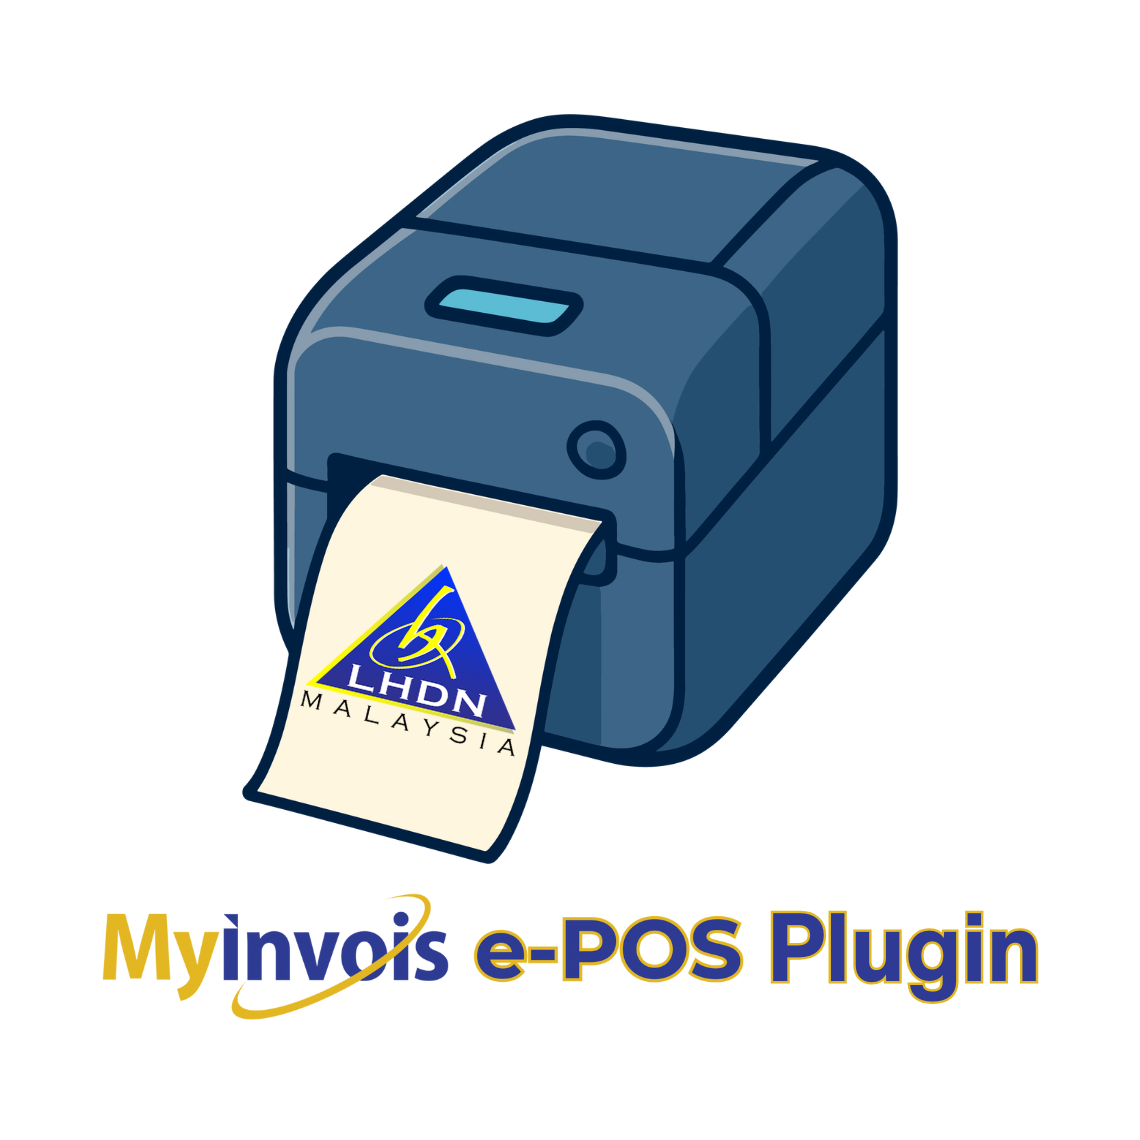
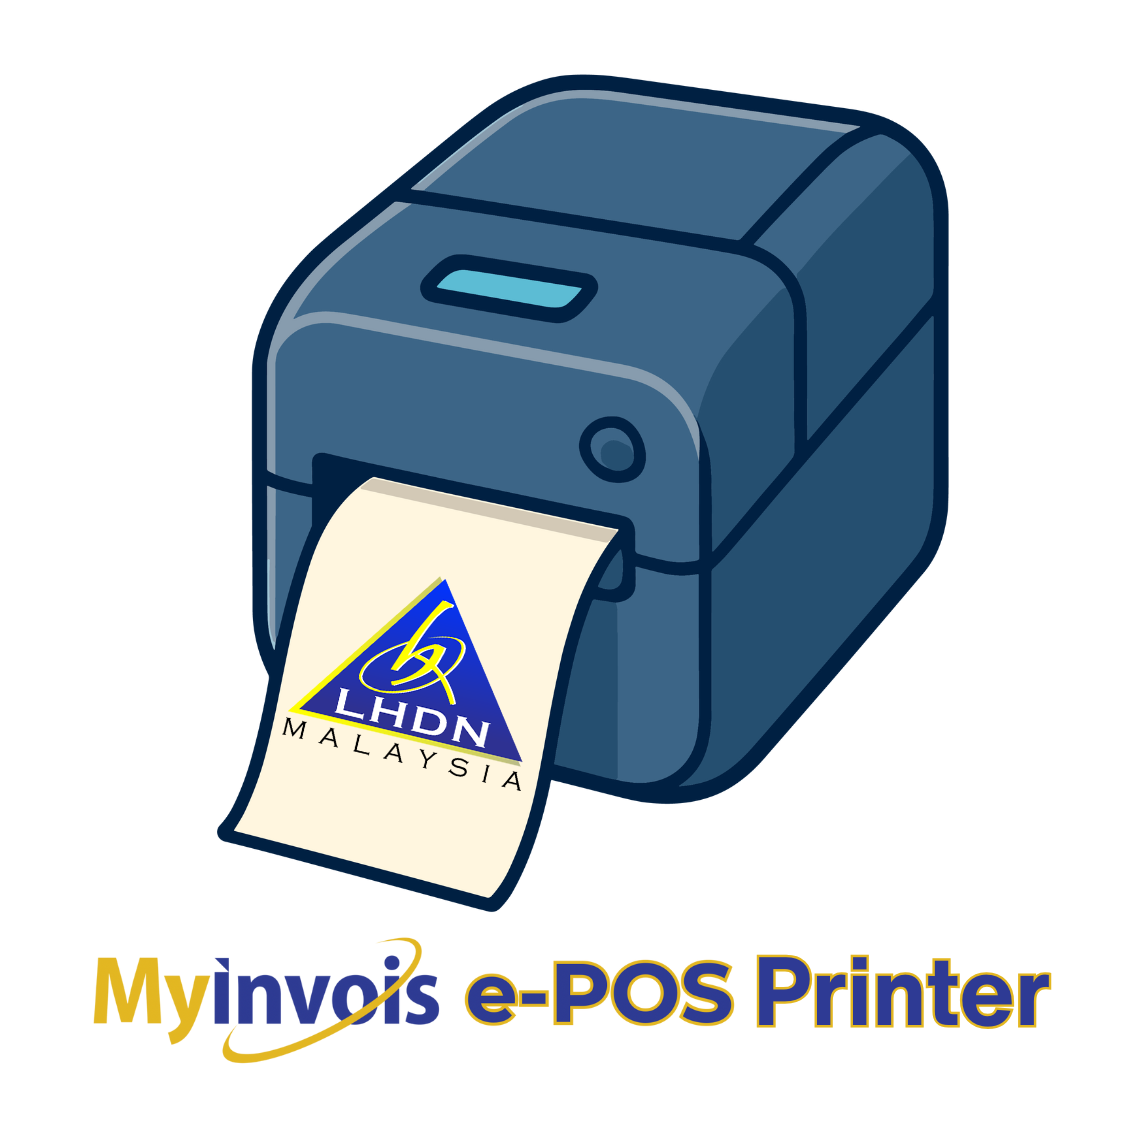
Initial commit

Changed region(s): [[0.0614, 0.0614, 0.9211, 0.9518]]

diff --git a/android/app/src/main/kotlin/com/example/epos_print_plugin/MyPrintService.kt b/android/app/src/main/kotlin/com/example/epos_print_plugin/MyPrintService.kt
@@ -78,8 +78,8 @@ class MyPrintService : PrintService() {
                 val mediaSunmi58 = MediaSize("SUNMI_58", "58mm (Small)", 2280, 50000)
                 val mediaSunmi80 = MediaSize("SUNMI_80", "80mm (Large)", 3150, 50000)
                 
-                // --- CUSTOM SETTING: "My-Invois e-Pos Printer" ---
-                val mediaEpos = MediaSize("EPOS_SETTING", "My-Invois e-Pos Printer", 8270, 11690)
+                // --- CUSTOM SETTING: "MyInvois e-Pos Printer" ---
+                val mediaEpos = MediaSize("EPOS_SETTING", "MyInvois e-Pos Printer", 8270, 11690)
                 val res203 = Resolution("R203", "Standard (203 dpi)", 203, 203)
 
                 fun addBluetoothPrinters() {
@@ -117,7 +117,7 @@ class MyPrintService : PrintService() {
                                 }
                                 
                                 // --- DEFAULT MEDIA SETTING ---
-                                // Set "My-Invois e-Pos Printer" as DEFAULT (true)
+                                // Set "MyInvois e-Pos Printer" as DEFAULT (true)
                                 capsBuilder.addMediaSize(mediaEpos, true)
                                 
                                 capsBuilder.setColorModes(PrintAttributes.COLOR_MODE_MONOCHROME, PrintAttributes.COLOR_MODE_MONOCHROME)

diff --git a/lib/pages/home_page.dart b/lib/pages/home_page.dart
@@ -266,7 +266,7 @@ class _HomePageState extends State<HomePage> {
 
     return Scaffold(
       appBar: AppBar(
-        title: const Text("My-Invois e-Pos Printer"),
+        title: const Text("MyInvois e-Pos Printer"),
         actions: [
           IconButton(icon: const Icon(Icons.settings), onPressed: _openSettings),
           IconButton(icon: const Icon(Icons.refresh), onPressed: () => _loadBondedDevices())
